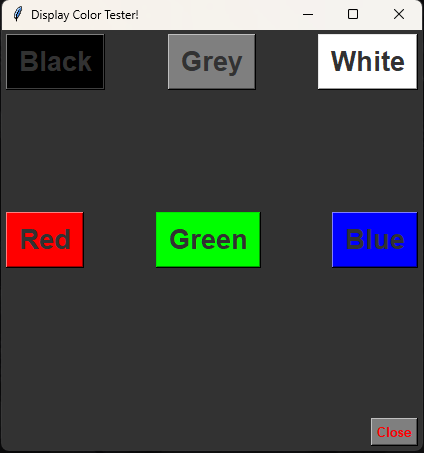
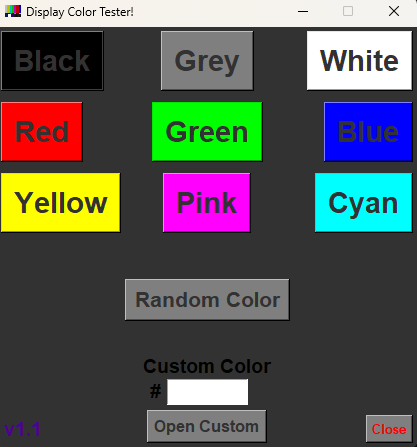
Update README

diff --git a/README.md b/README.md
@@ -14,12 +14,15 @@ Or even simply checking how
 colors look on a display!
 
 This ability to quickly display
-a single color on my
-own monitors, has personally helped
+a chosen color on my
+own monitors has personally helped
 me troubleshoot and identify display
 issues quite a few times,
-and aims to provide this
-same helpful experience to others!
+as well as helped with
+other display and color concerns.
+This program's aim is to
+hopefully provide that same helpful
+experience to others!
 
 ### | A Few Use Cases:
 - Using a plain white screen
@@ -36,16 +39,26 @@ display!
 identify dead pixels, or dead
 sub-pixels in a display!
 
-# | Previews:
+- Using a custom color to
+preview how that color will
+look on a display!
+
+## | Previews:
 The UI of this program
 is very simple, utilizing the
 native Python library, [***"tkinter"***](https://en.wikipedia.org/wiki/Tkinter)!
 
-## | The Main Menu:
+### | The Main Menu:
 ![MainMenu.png](images/MainMenu.png)
 
-## | The Colored Windows:
-![ColoredWindows.png](images/ColoredWindows.png)
+### | The Default RGB Colors:
+![DefaultColoredWindows.png](images/DefaultColoredWindows.png)
+
+### | The Random Color Option:
+![RandomColoredWindows.png](images/RandomColoredWindows.png)
+
+### | The Custom Color Option:
+![CustomColoredWindow.png](images/CustomColoredWindow.png)
 
 ---
 
@@ -68,3 +81,5 @@ based options!
 > - [***"Test My Screen"***](https://www.google.com/url?sa=t&rct=j&q=&esrc=s&source=web&cd=&cad=rja&uact=8&ved=2ahUKEwiK89X7tuKPAxUsJ0QIHccwMLEQFnoECBkQAQ&url=https%3A%2F%2Ftestmyscreen.com%2F&usg=AOvVaw1DO2ZbntndujLjrXWsFPZ3&opi=89978449)
 > - [***"EIZO Monitor Test"***](https://www.google.com/url?sa=t&rct=j&q=&esrc=s&source=web&cd=&cad=rja&uact=8&ved=2ahUKEwiK89X7tuKPAxUsJ0QIHccwMLEQFnoECCEQAQ&url=https%3A%2F%2Fwww.eizo.be%2Fmonitor-test%2F&usg=AOvVaw16rOrGdhE8JgIxVfyaOGvT&opi=89978449)
 > - [***"Mobile Screen Test"***](https://www.google.com/url?sa=t&rct=j&q=&esrc=s&source=web&cd=&ved=2ahUKEwiK89X7tuKPAxUsJ0QIHccwMLEQFnoECBYQAQ&url=https%3A%2F%2Fmobilescreentest.com%2F&usg=AOvVaw1j6_Zi2BGH7tQbco9pWyeS&opi=89978449)
+> 
+> ( *These are NOT created by me!* )
